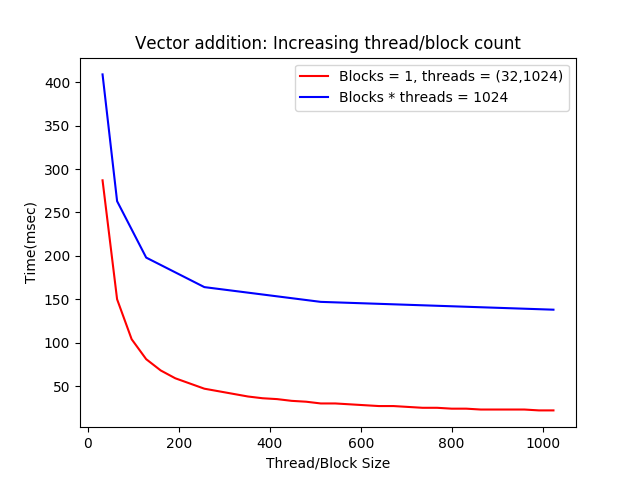
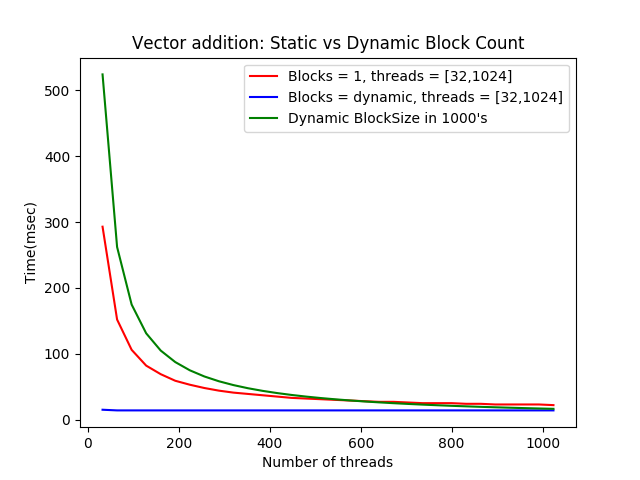
Corrected vector addition block/thread experiment

diff --git a/vecAdd/plot.py b/vecAdd/plot.py
@@ -19,7 +19,7 @@ staticTimes = []
 for i in staticData:
 	 staticTimes.append( float( i ) )
 staticInputs = [i for i in range(32, 1025, 32)]
-plt.plot( staticInputs,staticTimes, color="red", label="Blocks = 1, threads = (32,1024)")
+plt.plot( staticInputs,staticTimes, color="red", label="Blocks = 1, threads = [32,1024]")
 
 
 
@@ -33,20 +33,20 @@ del dynamicData[-1]  #x.remove(len(x)-1)
 dynamicTimes = []
 for i in dynamicData:
 	 dynamicTimes.append( float( i ) )
-dynamicInputs = []
-i = 32
-while i < 1025:
-	dynamicInputs.append(i)
-	i *= 2
-plt.plot( dynamicInputs,dynamicTimes, color="blue", label="Blocks * threads = 1024")
+dynamicInputs = [i for i in range(32, 1025, 32)]
+plt.plot( dynamicInputs,dynamicTimes, color="blue", label="Blocks = dynamic, threads = [32,1024]")
+
+blockSizes = [(16777216/i)/1000 for i in range(32,1025,32)]
+plt.plot( dynamicInputs,blockSizes, color="green", label="Dynamic BlockSize in 1000's")
 
 
 
 
-plt.xlabel("Thread/Block Size")
+
+plt.xlabel("Number of threads")
 plt.ylabel("Time(msec)")
 plt.legend()
-plt.title("Vector addition: Increasing thread/block count")
+plt.title("Vector addition: Static vs Dynamic Block Count")
 
 plt.show()
 
